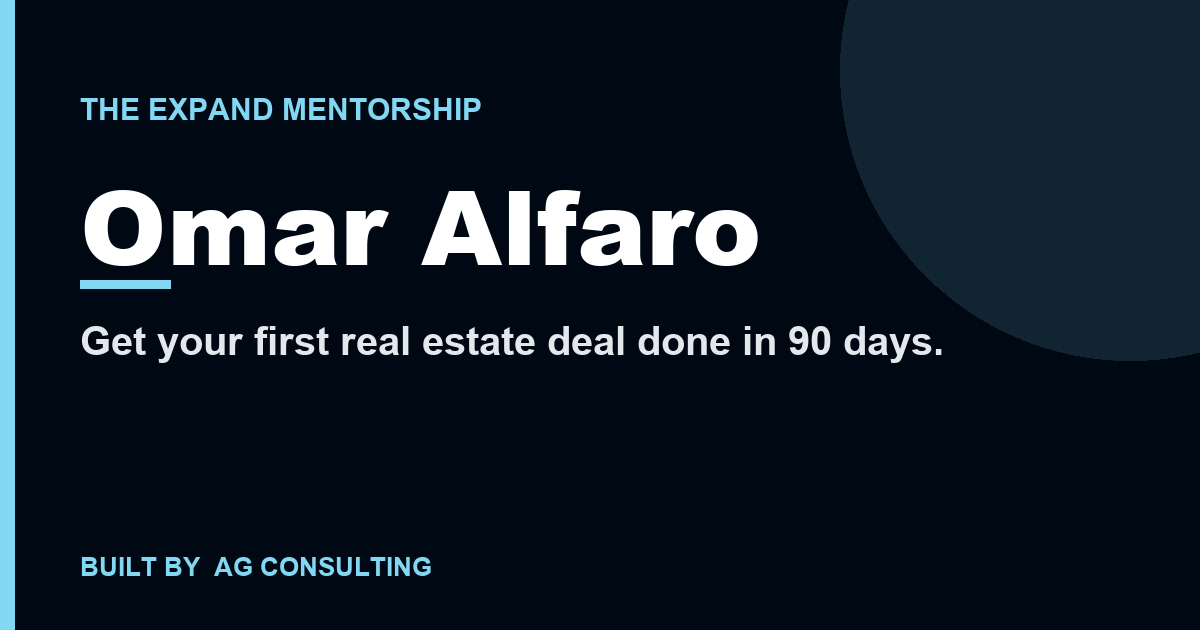
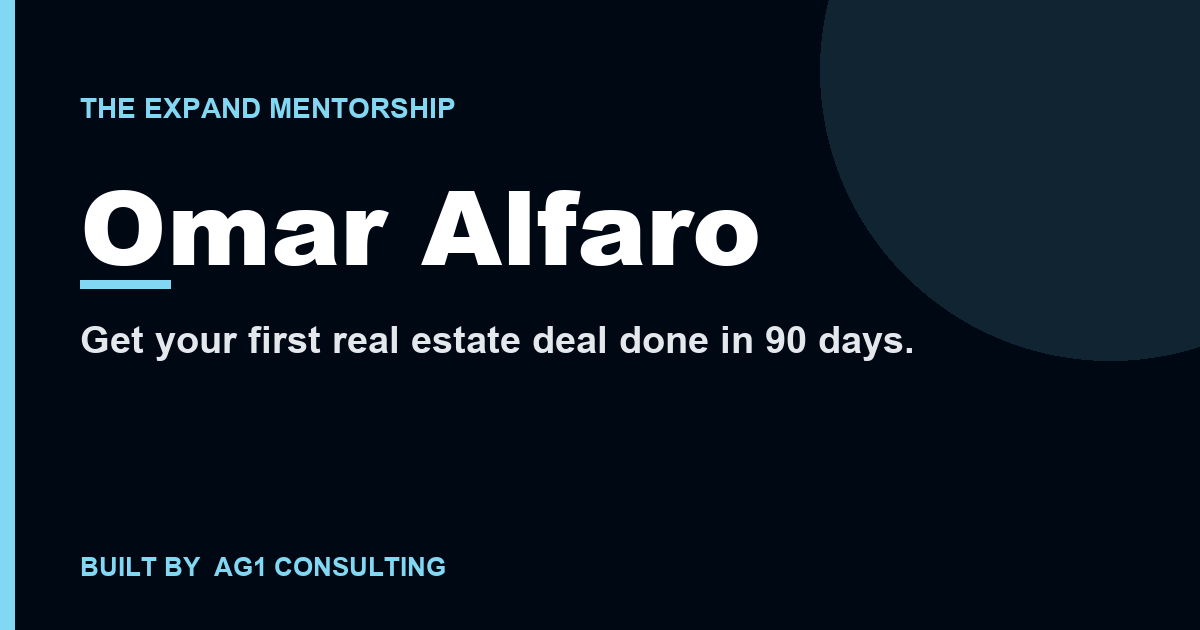
Deploy hub + docs + proof

diff --git a/index.html b/index.html
@@ -90,7 +90,7 @@
 
 <nav>
   <div class="nav-inner">
-    <div class="wordmark"><span class="ag">AG</span> <span class="co">CONSULTING</span></div>
+    <div class="wordmark"><span class="ag">AG1</span> <span class="co">CONSULTING</span></div>
     <a href="https://calendly.com/ag-copy/call-with-andrei" class="nav-cta">Book a Call</a>
   </div>
 </nav>
@@ -99,7 +99,7 @@
   <div class="wrap">
     <span class="badge reveal">Built Exclusively For Omar Alfaro</span>
     <div class="brand-row reveal">
-      <div class="brand-block"><span class="gold-text">AG</span> <span style="color:var(--white)">CONSULTING</span></div>
+      <div class="brand-block"><span class="gold-text">AG1</span> <span style="color:var(--white)">CONSULTING</span></div>
       <span class="brand-x">for</span>
       <div class="brand-block" style="color:var(--white)">OMAR ALFARO</div>
     </div>
@@ -223,12 +223,13 @@
     <h2>Ready to build this for real?</h2>
     <p>Everything above was built specifically for you, Omar. Imagine what we'd do wired into your 73K audience, your podcast, and a real discovery-call funnel.</p>
     <a href="https://calendly.com/ag-copy/call-with-andrei" class="btn-link" target="_blank" rel="noopener">Book a call with Andrei</a>
+    <p style="color:var(--gold-flat);font-weight:700;font-size:0.9rem;margin:18px 0 0;letter-spacing:.02em;">Over $1M in client revenue generated. One operator.</p>
   </div>
 
 </div>
 
 <footer>
-  <div class="wordmark"><span class="ag gold-text">AG</span> <span class="co">CONSULTING</span></div>
+  <div class="wordmark"><span class="ag gold-text">AG1</span> <span class="co">CONSULTING</span></div>
   <div>High-ticket offers and marketing systems, done for you.</div>
 </footer>
 
